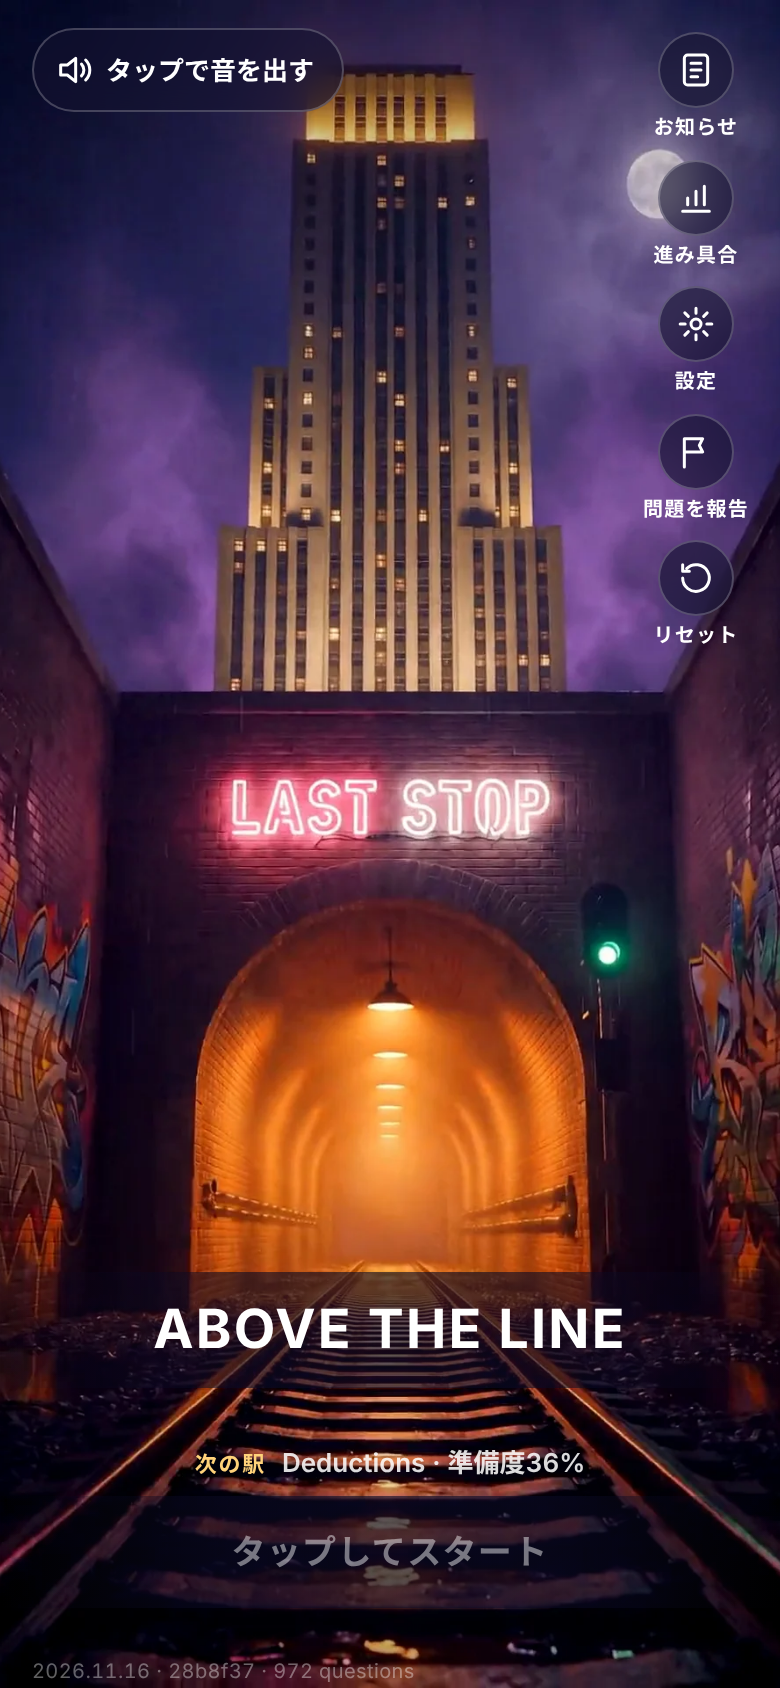
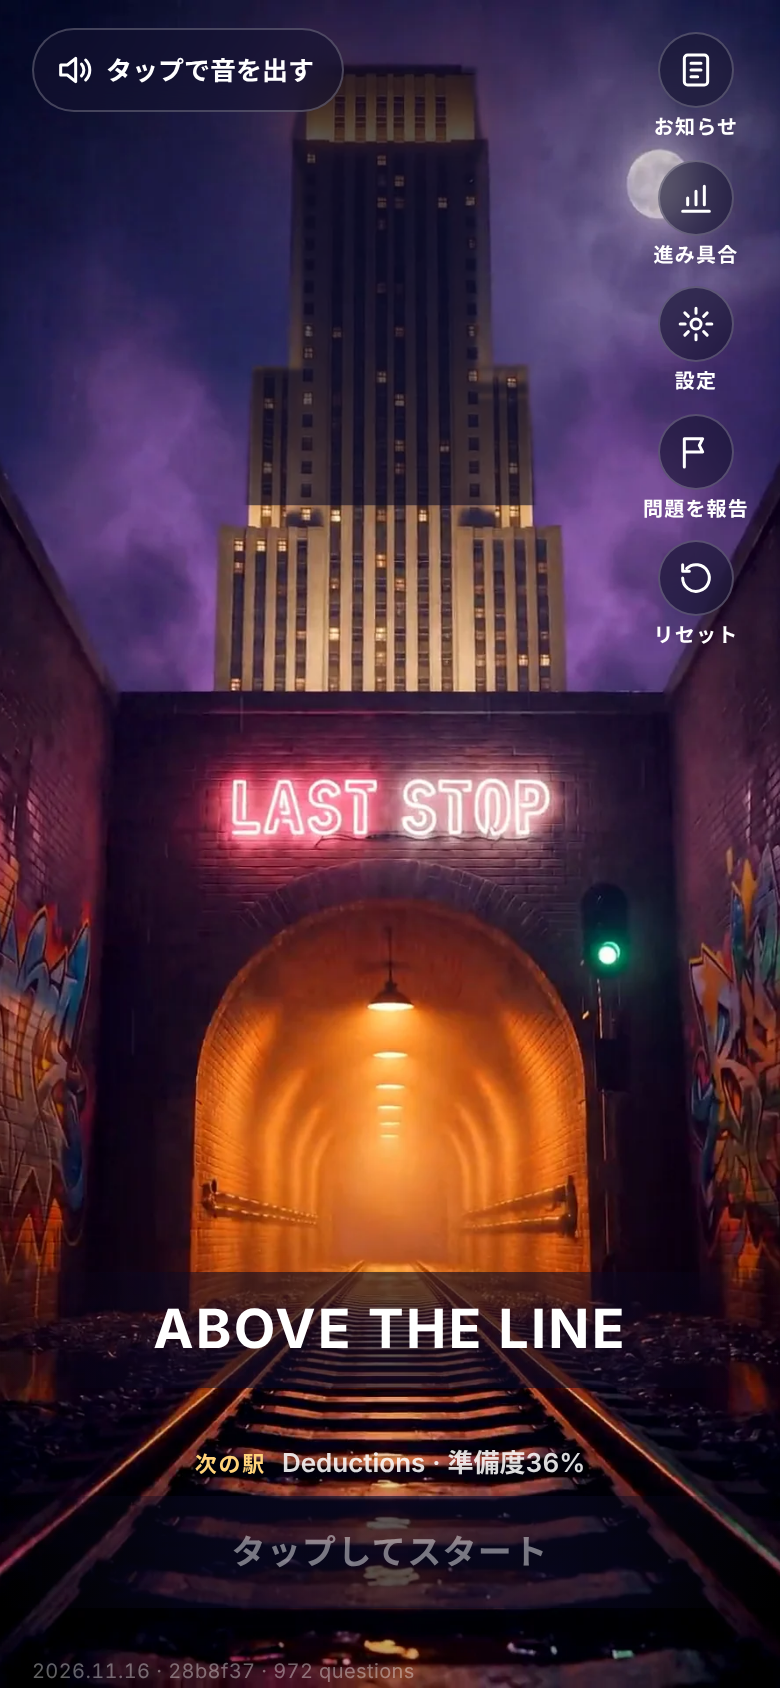
Japanese video screenshots, subtitle spacing for English names, and the review's fixes (language flag read once, font fallbacks, doc line count)
Claude-Session: https://claude.ai/code/session_01URjRU3pDtmDkdp8R9FhgeU

Changed region(s): [[0.3077, 0.154, 0.7077, 0.3081], [0.3692, 0.0308, 0.6154, 0.1232]]

diff --git a/index.html b/index.html
@@ -199,7 +199,7 @@
    phone's own Japanese font draws the rest (Hiragino on iPhone, Noto Sans CJK on Android, Yu Gothic on Windows), so no
    Japanese font is downloaded. Listed by name so a browser never picks a Chinese font for the same characters. */
 :root:lang(ja) {
-  --f-ui: "Inter", "Hiragino Sans", "Hiragino Kaku Gothic ProN", "Noto Sans JP", "Noto Sans CJK JP", "Yu Gothic UI", "Meiryo", system-ui, sans-serif;
+  --f-ui: "Inter", "Hiragino Sans", "Hiragino Kaku Gothic ProN", "Noto Sans JP", "Noto Sans CJK JP", "Yu Gothic UI", "Meiryo", system-ui, -apple-system, "Segoe UI", Roboto, sans-serif;
   --f-sign: "Helvetica Neue", "Inter", "Hiragino Sans", "Noto Sans JP", "Noto Sans CJK JP", "Yu Gothic UI", sans-serif;
 }
 @media (prefers-color-scheme: dark) {
@@ -2069,7 +2069,7 @@ if (LANG !== "en") {
   const NAMES = ["Individuals", "Businesses", "Representation"];
   const film = { on: false, v: null, shot: -1, endedAt: 0, tried: false, lastT: -1, lastMove: 0 };
   let stationI = 0, waiting = false, phase = "wait", has3d = false, failed3d = false, queued = false, exiting = false, scene = null, go = null, notices = () => [];
-  $i("#inbuild").textContent = "2026.11.16 · 28b8f37 · 972 questions";
+  $i("#inbuild").textContent = "2026.11.16 · b981acf · 972 questions";
   const setPhase = p => {
     phase = p; el.dataset.phase = p;
     el.classList.toggle("hero", p === "hero");
@@ -4699,8 +4699,9 @@ function introGo(where) {
   else if (where === "reset") { renderMore(); $("#reset").click(); toCard(t("Start over")); } /* opens the confirm; nothing is erased from the launch screen */
   else renderHome();
 }
+const backToMore = afterLang(); /* read once, so the flag never outlives this load */
 if (state.examRun) renderExam();
-else if (afterLang()) renderMore();
+else if (backToMore) renderMore();
 else if (window.Intro && window.Intro.on) { window.Intro.begin({ name: state.name, notices: introNotices, go: introGo }); window.Intro.progress && window.Intro.progress(introProgress()); }
 else renderHome();
 

diff --git a/promo/src/Fx.tsx b/promo/src/Fx.tsx
@@ -100,7 +100,7 @@ export const WordSubs: React.FC<{text: string; start: number; dur: number}> = ({
   if (frame < start - 3) return null;
   const words = text.replace(/C P A/g, 'CPA').replace(/E A/g, 'EA').replace(/I R S/g, 'IRS').split(' ');
   // Japanese has no spaces between words: the script's spaces mark the phrases that light up, and aren't shown
-  const gap = JA ? '' : ' ';
+  const gap = (i: number) => !JA || (/[A-Za-z0-9]$/.test(words[i]) && /^[A-Za-z]/.test(words[i + 1] || '')) ? ' ' : '';  // keep the space inside English names
   const total = words.reduce((a, w) => a + w.length + 1, 0);
   let acc = 0;
   const o = interpolate(frame, [start - 3, start + 3], [0, 1], clamp);
@@ -110,7 +110,7 @@ export const WordSubs: React.FC<{text: string; start: number; dur: number}> = ({
         {words.map((w, i) => {
           const t0 = start + (acc / total) * dur; acc += w.length + 1;
           const on = frame >= t0, now = on && frame < start + (acc / total) * dur;
-          return <span key={i} style={{color: now ? C.amber : on ? '#fff' : 'rgba(255,255,255,0.42)'}}>{w}{gap}</span>;
+          return <span key={i} style={{color: now ? C.amber : on ? '#fff' : 'rgba(255,255,255,0.42)'}}>{w}{gap(i)}</span>;
         })}
       </div>
     </div>

diff --git a/src/shell.html b/src/shell.html
@@ -182,7 +182,7 @@
    phone's own Japanese font draws the rest (Hiragino on iPhone, Noto Sans CJK on Android, Yu Gothic on Windows), so no
    Japanese font is downloaded. Listed by name so a browser never picks a Chinese font for the same characters. */
 :root:lang(ja) {
-  --f-ui: "Inter", "Hiragino Sans", "Hiragino Kaku Gothic ProN", "Noto Sans JP", "Noto Sans CJK JP", "Yu Gothic UI", "Meiryo", system-ui, sans-serif;
+  --f-ui: "Inter", "Hiragino Sans", "Hiragino Kaku Gothic ProN", "Noto Sans JP", "Noto Sans CJK JP", "Yu Gothic UI", "Meiryo", system-ui, -apple-system, "Segoe UI", Roboto, sans-serif;
   --f-sign: "Helvetica Neue", "Inter", "Hiragino Sans", "Noto Sans JP", "Noto Sans CJK JP", "Yu Gothic UI", sans-serif;
 }
 @media (prefers-color-scheme: dark) {

diff --git a/src/app.js b/src/app.js
@@ -1105,7 +1105,8 @@ function introGo(where) {
   else if (where === "reset") { renderMore(); $("#reset").click(); toCard(t("Start over")); } /* opens the confirm; nothing is erased from the launch screen */
   else renderHome();
 }
+const backToMore = afterLang(); /* read once, so the flag never outlives this load */
 if (state.examRun) renderExam();
-else if (afterLang()) renderMore();
+else if (backToMore) renderMore();
 else if (window.Intro && window.Intro.on) { window.Intro.begin({ name: state.name, notices: introNotices, go: introGo }); window.Intro.progress && window.Intro.progress(introProgress()); }
 else renderHome();

diff --git a/DESIGN.md b/DESIGN.md
@@ -88,7 +88,7 @@ The app bar title (27px/700), the part line under it, and the whole strip map: s
 Tap to Start in Inter 17px/700 with 0.04em tracking; the status line 13px/600 with tabular numbers; the side button labels 10px/700 uppercase with 0.06em tracking; the build string 10px/400 in white at 38%, decorative only. Station signs in the 3D use Helvetica 700.
 
 ### Japanese — the phone's own font (`:lang(ja)`)
-When the interface is Japanese (More > Language), `--f-ui` and `--f-sign` add Japanese system fonts after Inter and Helvetica: "Hiragino Sans", "Hiragino Kaku Gothic ProN", "Noto Sans JP", "Noto Sans CJK JP", "Yu Gothic UI", "Meiryo". Latin letters and numbers stay Inter or Helvetica; kana and kanji come from the phone (Hiragino on iPhone, Noto Sans CJK on Android). No Japanese font is downloaded, so the app and its offline copy stay the same size. Same sizes and weights as English; the river name on the strip map stands upright (`writing-mode: vertical-rl`) instead of turned on its side. Questions, choices and explanations are English in both languages, so `--f-read` has no Japanese fallback. The how-to video's Japanese render uses Noto Sans JP 700 and 900 (`promo/tools/jpfont.sh`).
+When the interface is Japanese (More > Language), `--f-ui` and `--f-sign` add Japanese system fonts after Inter and Helvetica: "Hiragino Sans", "Hiragino Kaku Gothic ProN", "Noto Sans JP", "Noto Sans CJK JP", "Yu Gothic UI", "Meiryo", then the same system fonts as English. Latin letters and numbers stay Inter or Helvetica; kana and kanji come from the phone (Hiragino on iPhone, Noto Sans CJK on Android). No Japanese font is downloaded, so the app and its offline copy stay the same size. Same sizes and weights as English; the river name on the strip map stands upright (`writing-mode: vertical-rl`) instead of turned on its side. Questions, choices and explanations are English in both languages, so `--f-read` has no Japanese fallback. The how-to video's Japanese render uses Noto Sans JP 700 and 900 (`promo/tools/jpfont.sh`).
 
 ### Lora italic and Parisienne — the greeting only
 Lora italic 500 for the buddy's quote, Parisienne for your name. Never anywhere else.

diff --git a/docs/ARCHITECTURE.md b/docs/ARCHITECTURE.md
@@ -60,7 +60,7 @@ fonts are in `fonts/`: the page asks no outside server for anything.
 | `tools/build.py` | 58 | Builds `index.html` from `src/` |
 | `tools/smoke.js` | 190 | Headless test; run after building |
 | `tools/tsq_map.py` | 113 | OpenStreetMap download to `src/tsq-map.json` |
-| `tools/i18n_check.py` | 39 | Checks every interface text has its Japanese, with the same placeholders |
+| `tools/i18n_check.py` | 59 | Checks every interface text has its Japanese, with the same placeholders |
 | `tools/abbrev.py` | 262 | Checks abbreviations are spelled out (`--fix`) |
 | `tools/blender/towers.py` | 237 | Tower models (`pip install bpy==5.2.3`) |
 | `tools/blender/intro_plate.py` | 536 | The Tap to Start render |
